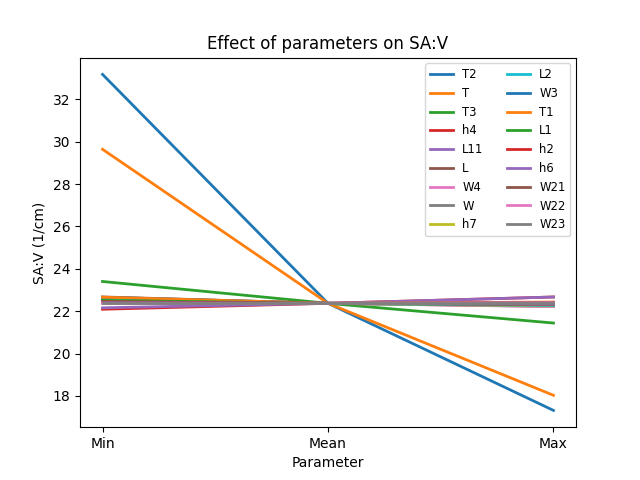
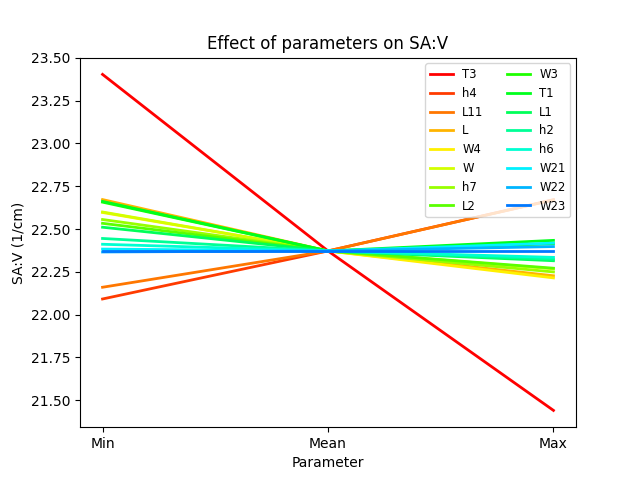
Updated Factor Effects
- Updated colors for initial factor effects plots in preliminary analysis and varying parameters
- Normalized factor effects from the full factorials as weighted percentages of the total effect and visualized in a pie chart

diff --git a/fullfactorial_analysis_data/factor_effects_plot.py b/fullfactorial_analysis_data/factor_effects_plot.py
@@ -20,10 +20,13 @@ with open(f'fullfactorial_analysis_data/PostDataFF1Load{loadn}.txt', 'r') as f:
 
 # print(header)
 
-def hexcolors(): # generates NUM_FACTORS RGB colors in a spectrum from blue to red
+def hexcolors(mode): # generates NUM_FACTORS RGB colors in a spectrum from blue to red
   colors = []
   for i in range(NUM_FACTORS):
-    n = i * 1024 / (NUM_FACTORS-1)
+    if mode == 0: # regular plots
+      n = (i) * 1024 / (NUM_FACTORS-1)
+    elif mode == 1: # normalized factor effects pie charts
+      n = (i+5) * 1024 / (NUM_FACTORS+4)
     if (n <= 255):
       r = 0
       g = n
@@ -48,6 +51,7 @@ def hexcolors(): # generates NUM_FACTORS RGB colors in a spectrum from blue to r
   colors.reverse()
   return colors
 
+impacts = [0]*NUM_FACTORS # list of impact scores for each factor
 # Factor Effects Analysis
 with open(f'fullfactorial_analysis_data/factor_impact_ranks_load{loadn}.txt', 'w') as f: # generates text file with factors ranked by impact for each criteria
   if loadn == 1:
@@ -83,6 +87,25 @@ with open(f'fullfactorial_analysis_data/factor_impact_ranks_load{loadn}.txt', 'w
       factordict[name] = abs(score)
       sortedfactors = sorted(factordict.items(), reverse=True, key=lambda x:x[1])
       rankedfactors = [x[0] for x in sortedfactors] # list of factor names in order of impact
+    # Calculating overall impact score
+    diffs = []
+    for a in averages:
+       diffs.append(abs(a[1]-a[0]))
+    totaldiff = sum(diffs)
+    for i in range(len(factors)):
+      if c == "SAV (1/cm)":
+        impacts[i] += diffs[i]/totaldiff * 50
+      else:
+        impacts[i] += diffs[i]/totaldiff * 10
+    # diffs = []
+    # for a in averages:
+    #    diffs.append(abs(a[1]-a[0]))
+    # maxdiff = max(diffs)
+    # for i in range(len(factors)):
+    #   if c == "SAV (1/cm)":
+    #     impacts[i] += diffs[i]/maxdiff * 50
+    #   else:
+    #     impacts[i] += diffs[i]/maxdiff * 10
     # Creating factor effects plots
     for i in range(len(factors)):
       name = header[i+2]
@@ -90,7 +113,7 @@ with open(f'fullfactorial_analysis_data/factor_impact_ranks_load{loadn}.txt', 'w
       rankstrings[i] += f", {rank+1}"
       x = np.array(['Min', 'Max'])
       y = np.array([averages[i][1], averages[i][0]])
-      ax.plot(x,y, label=name, linewidth = 2.0, color = hexcolors()[i])
+      ax.plot(x,y, label=name, linewidth = 2.0, color = hexcolors(0)[i])
       ax.set_xlabel('Parameter')
       ax.set_ylabel(c)
       ax.set_title(f'Effect of parameters on {dispc}')
@@ -100,3 +123,18 @@ with open(f'fullfactorial_analysis_data/factor_impact_ranks_load{loadn}.txt', 'w
     print(f"{dispc}")
   for row in rankstrings:
       f.write(f"{row}\n")
+#print(hexcolors(1))
+fig, ax = plt.subplots()
+impactdicts = dict(zip(header[2:9], impacts))
+sortedimpacts = sorted(impactdicts.items(), reverse=True, key=lambda x:x[1])
+pielabels = []
+piey = []
+for i in range(NUM_FACTORS):
+  pielabels.append(sortedimpacts[i][0])
+  piey.append(sortedimpacts[i][1])
+print(sortedimpacts)
+piecolors = hexcolors(1)[:-2] + [(0.0, 1.0, 0.87), (0.0, 0.75, 1.0)]
+ax.pie(piey, labels=pielabels, textprops={'fontsize': 14}, radius = 1.25, colors=piecolors, labeldistance=1.08)
+#plt.show()
+plt.savefig(f'fullfactorial_analysis_data/Normalized Impact Pie - Load {loadn}.png')
+plt.close()

diff --git a/preliminary_analysis_data/factor_effects_plot.py b/preliminary_analysis_data/factor_effects_plot.py
@@ -2,9 +2,38 @@
 import matplotlib.pyplot as plt
 import numpy as np
 
+NUM_FACTORS = 11
 ind = 4 # index of data to be used for sorting
 nameind = 2 # index of name of parameter
 loadn = 2 # load case (1 or 2)
+
+def hexcolors(): # generates NUM_FACTORS RGB colors in a spectrum from blue to red
+  colors = []
+  for i in range(NUM_FACTORS):
+    n = i * 1024 / (NUM_FACTORS-1)
+    if (n <= 255):
+      r = 0
+      g = n
+      b = 255
+    elif (n <= 511):
+      r = 0
+      g = 255
+      b = 511 - n
+    elif (n <= 767):  
+      r = n - 512
+      g = 255
+      b = 0
+    elif (n < 1024):
+      r = 255
+      g = 1023 - n
+      b = 0
+    else:
+      r = 255
+      g = 0
+      b = 0
+    colors.append((r/255, g/255, b/255))
+  colors.reverse()
+  return colors
 
 # read in data
 with open(f'preliminary_analysis_data/PostDataLoad{loadn}.txt', 'r') as f:
@@ -19,7 +48,7 @@ with open(f'preliminary_analysis_data/PostDataLoad{loadn}Mean.txt', 'r') as f:
     mdata = [row.split(', ') for row in f.read().split('\n')]
     mdata.pop(0)
     mdata.pop() # removes last empty row
-    mean = float(mdata[0][ind])
+    mean = float(mdata[0][ind]) # changes depending on load case (just because the data for the two was formatted differently)
 
 # Sorting Data by impact on SA:V
 paramdict = {}
@@ -39,16 +68,18 @@ for k, v in paramdict.items():
 
 # paramdict.pop('T2')
 # paramdict.pop('T')
-
+print(paramdict)
 # Plotting Data
 fig, ax = plt.subplots()
+c = 0
 for k, v in paramdict.items():
     name = k
     x = np.array(['Min', 'Mean', 'Max'])
     y = np.array([v[0], v[1], v[2]])
-    ax.plot(x,y, label=name, linewidth = 2.0)
+    ax.plot(x,y, label=name, linewidth = 2.0, color = hexcolors()[c])
     ax.set_xlabel('Parameter')
     ax.set_ylabel('Max Mises Stress (Pa)')
-    ax.set_title('Effect of parameters on Max Mises Stress')
+    ax.set_title(f'Effect of parameters on Max Mises Stress (Load Case {loadn})')
+    c+=1
 ax.legend(loc='upper right', ncols=2, fontsize='medium')
 plt.show()

diff --git a/varying_parameters_data/factor_effects_plot.py b/varying_parameters_data/factor_effects_plot.py
@@ -2,6 +2,35 @@
 import matplotlib.pyplot as plt
 import numpy as np
 
+NUM_FACTORS = 18
+def hexcolors(): # generates NUM_FACTORS RGB colors in a spectrum from blue to red
+  colors = []
+  for i in range(NUM_FACTORS):
+    n = i * 1024 / (NUM_FACTORS-1)
+    if (n <= 255):
+      r = 0
+      g = n
+      b = 255
+    elif (n <= 511):
+      r = 0
+      g = 255
+      b = 511 - n
+    elif (n <= 767):  
+      r = n - 512
+      g = 255
+      b = 0
+    elif (n < 1024):
+      r = 255
+      g = 1023 - n
+      b = 0
+    else:
+      r = 255
+      g = 0
+      b = 0
+    colors.append((r/255, g/255, b/255))
+  colors.reverse()
+  return colors
+
 # read in data
 with open('varying_parameters_data/VaryingParametersCSV3.txt', 'r') as f:
     data = [row.split(', ') for row in f.read().split('\n')]
@@ -33,13 +62,15 @@ paramdict.pop('T')
 
 # Plotting Data
 fig, ax = plt.subplots()
+c = 0
 for k, v in paramdict.items():
     name = k
     x = np.array(['Min', 'Mean', 'Max'])
     sav = np.array([v[0], v[1], v[2]])
-    ax.plot(x,sav, label=name, linewidth = 2.0)
+    ax.plot(x,sav, label=name, linewidth = 2.0, color = hexcolors()[c])
     ax.set_xlabel('Parameter')
     ax.set_ylabel('SA:V (1/cm)')
     ax.set_title('Effect of parameters on SA:V')
+    c+=1
 ax.legend(loc='upper right', ncols=2, fontsize='small')
 plt.show()
